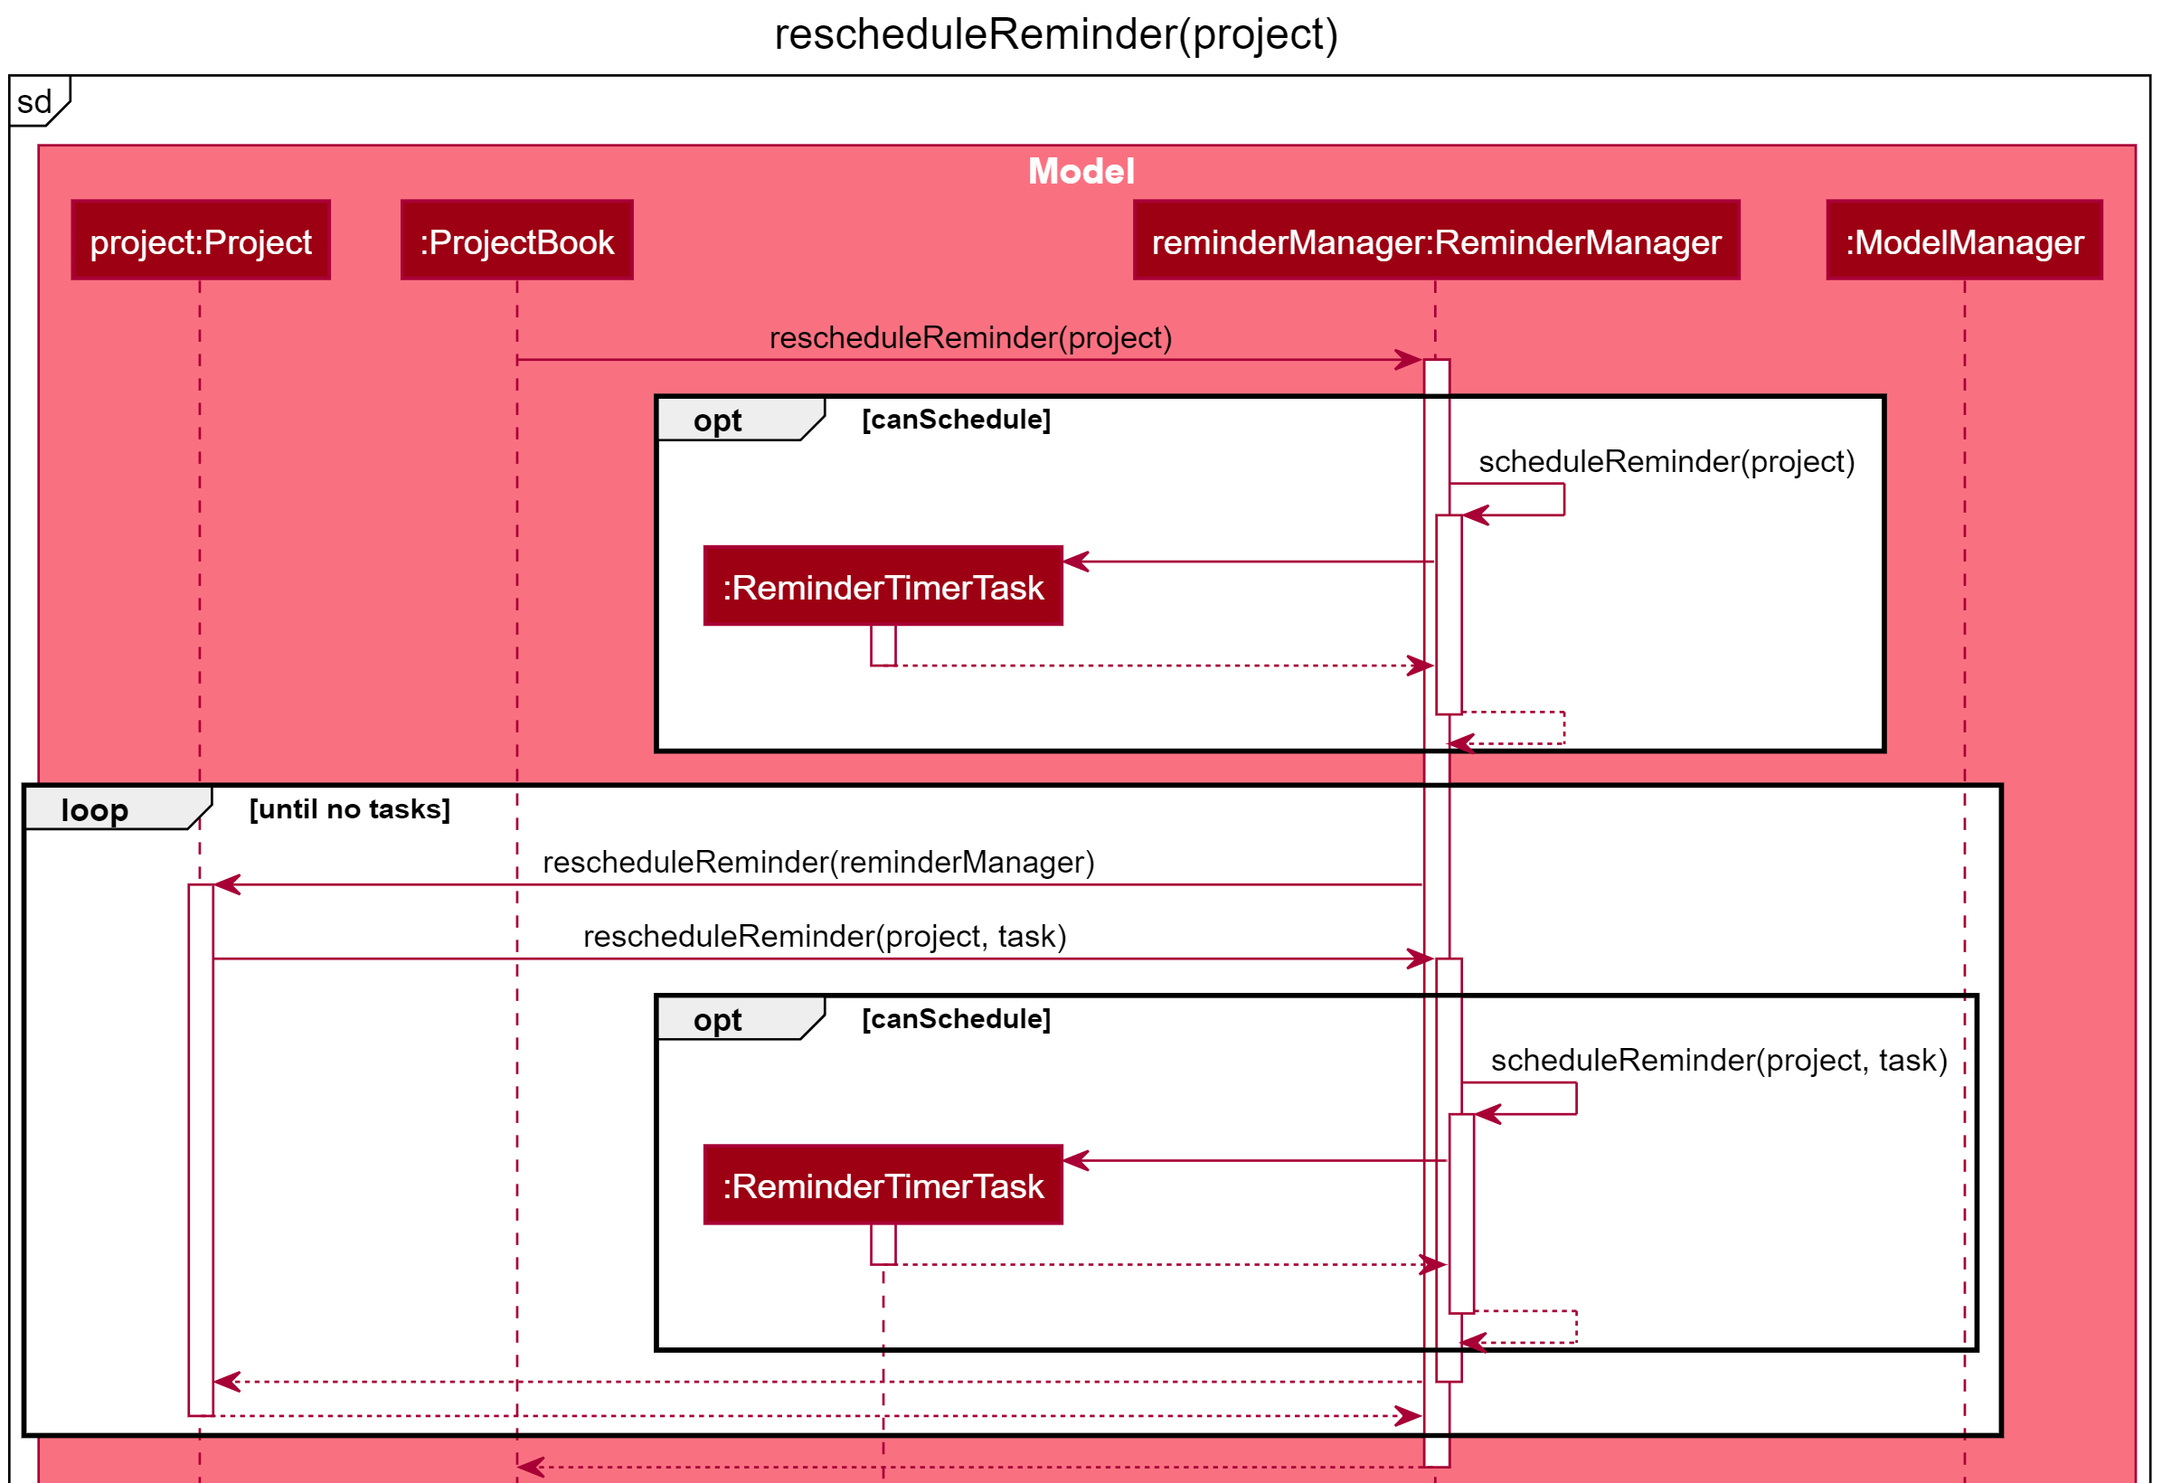
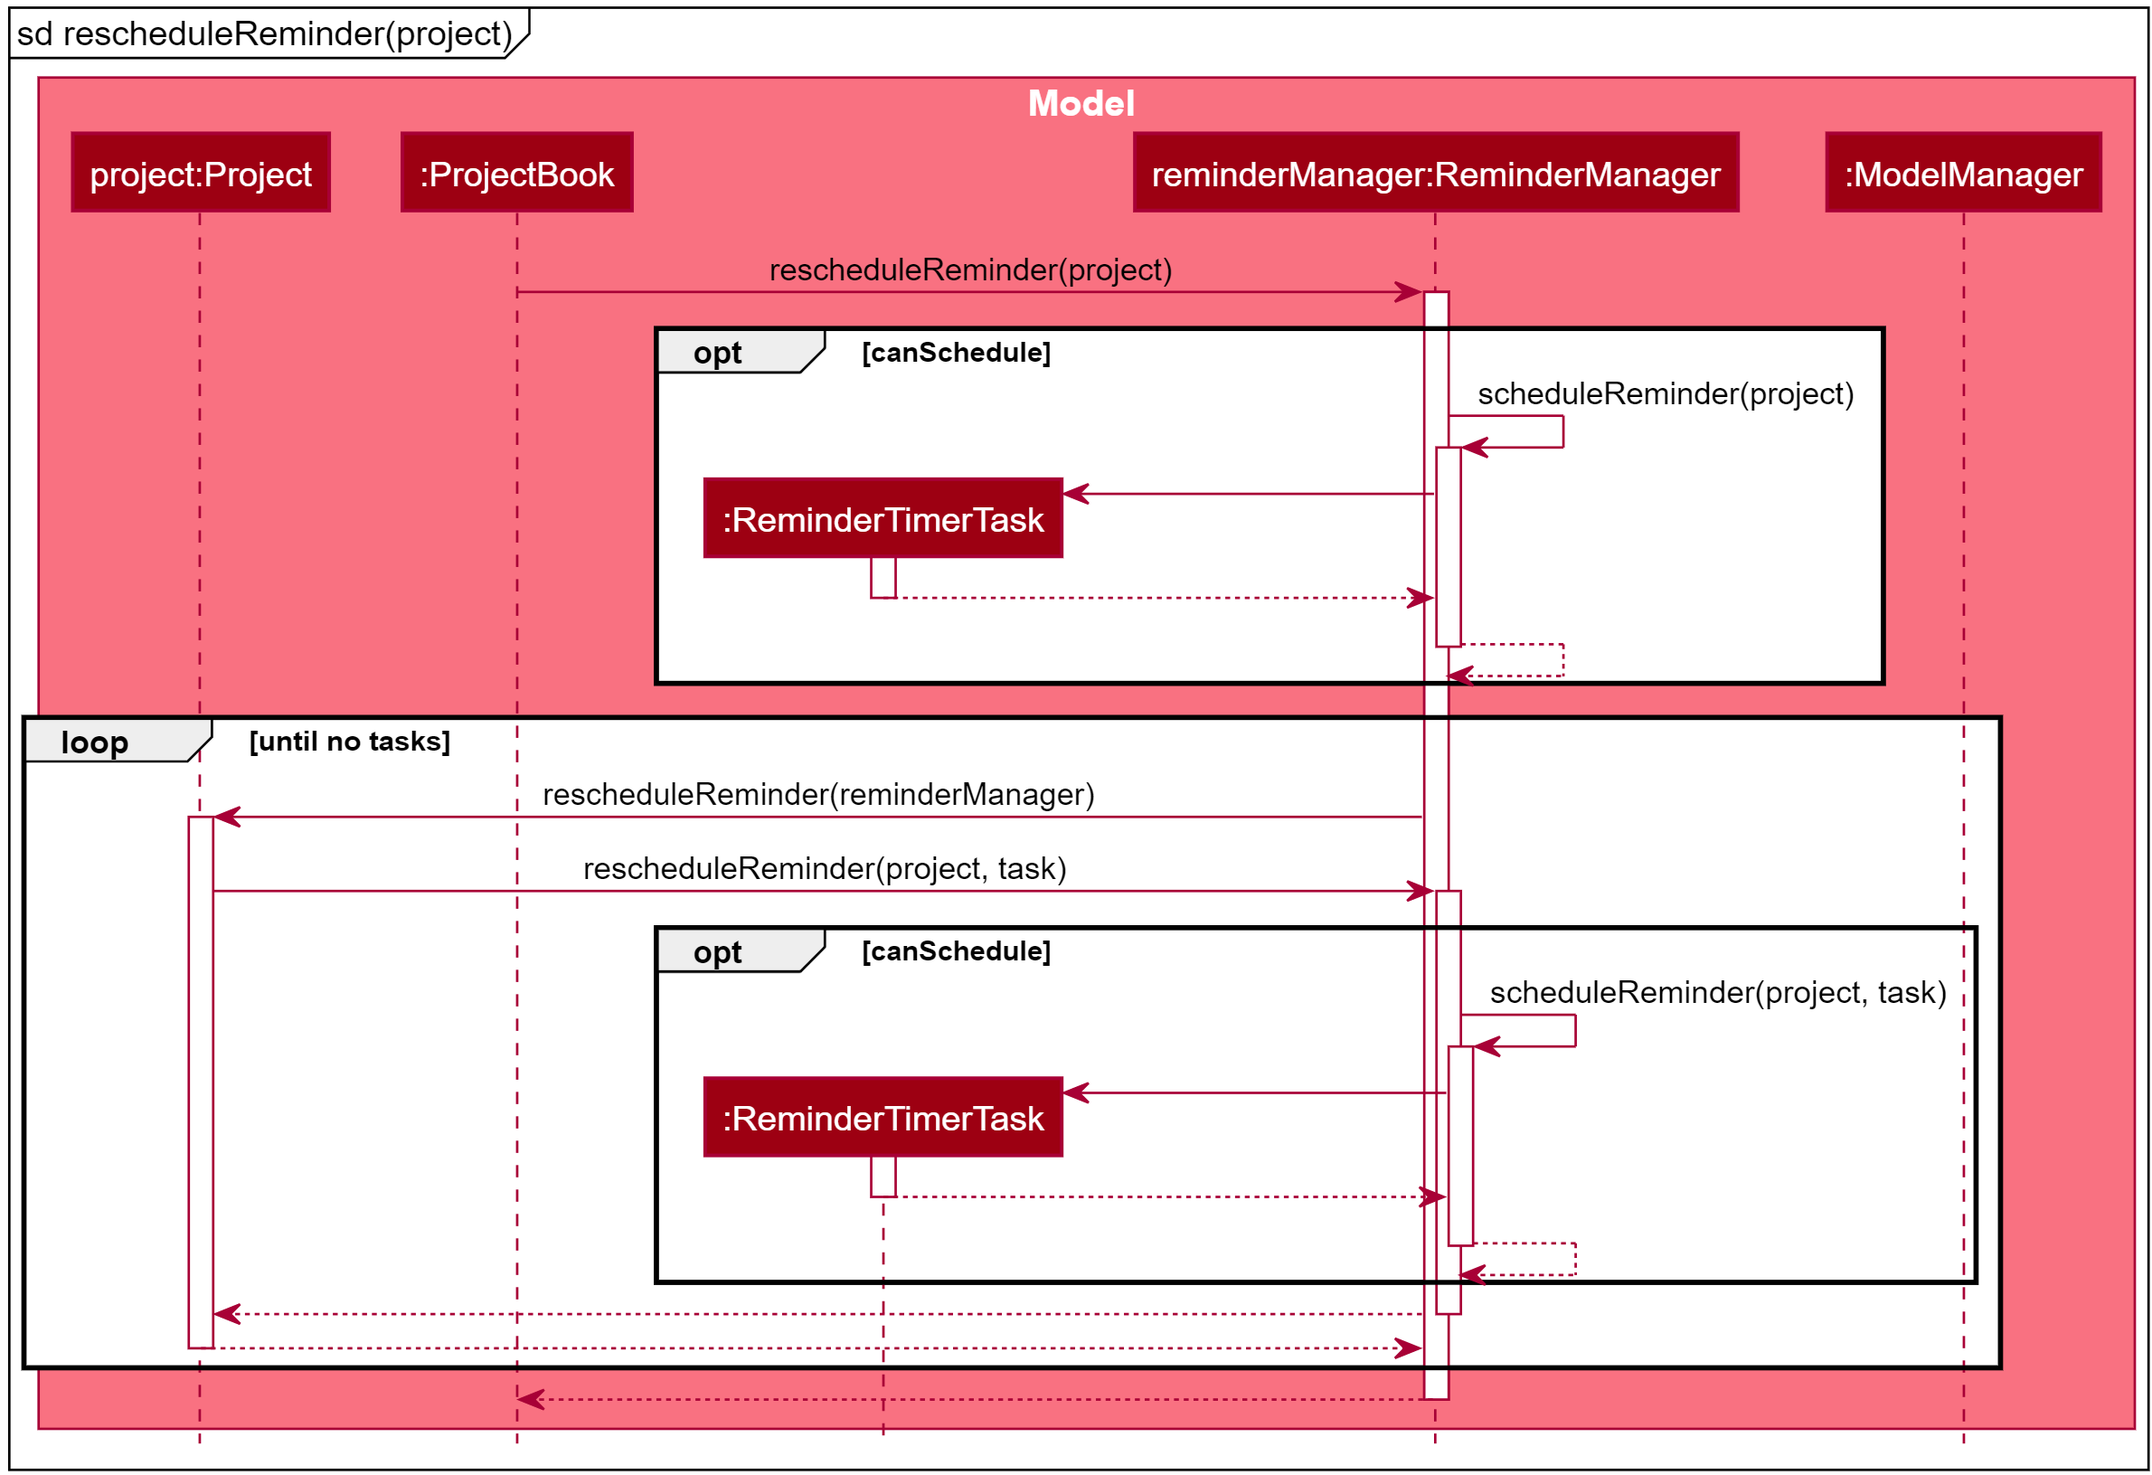
Update developer guide and some diagrams

diff --git a/docs/DeveloperGuide.md b/docs/DeveloperGuide.md
@@ -140,19 +140,8 @@ The `Storage` component,
 * can save `UserPref` objects in json format and read it back.
 * can save `JsonAdaptedProject` objects in `JsonSerializableProjectBook` in json format and read it back.
 
-The `JsonAdaptedTask` component contains fields of a `Task` in json format:
-
-* `name` in `String` format
-* `description` in `String` format
-* `completionStatus` in `boolean` format
-* `createdDate` in `String` format
-* `deadline` in `String` format
-* `reminder` in `String` format
-* `tagged` in `List<JsonAdaptedTag>` format
-* `durations` in `List<JsonAdaptedWorkDuration>` format
-* `timer` in `JsonAdaptedTimer` format
-
-In addition to the fields in `JsonAdaptedTask` component, `JsonAdaptedProject` contains a taskList in `List<JsonAdaptedTask>` format.
+The `JsonAdaptedProject` class contains the same fields as the `JsonAdaptedTask` class.
+In addition to the fields in `JsonAdaptedTask` component, `JsonAdaptedProject` also contains a taskList in `List<JsonAdaptedTask>` format, as show in the class diagram above.
 
 ### Common classes
 
@@ -224,7 +213,7 @@ Drawbacks:
 
 #### Alternative 1: Using Predicates
 
-Another implementation we considered was to add all `Project` and `Task` objects to the same `UniqueItemsList`. 
+Another implementation we considered was to add all `Project` and `Task` objects to the same `UniqueItemsList`.
 
 This implementation shares some similarities with our chosen implementation. Both `Project` and `Task` will extend an abstract `TrackedItem` class.
 
@@ -267,9 +256,11 @@ Drawbacks:
 * Allowing for deeper nesting of projects may make the application more confusing to use without significant UI changes.
 
 ### Immutability
+
 `Projects`, `Tasks`, `Timers`, and `WorkDurations` are immutable. This means that anytime a project's details are changed, a new object is created with the new details, and the model is updated with the new object.
 
 Notable examples include:
+
 * Starting/Stopping a Timer: A new object is created with the updated timer state and durations,
 * Editing a Project: A new object is created with the new project's details, with the same timer and durations recorded.
 
@@ -332,9 +323,9 @@ For `EditCommand`, a descriptor of type `editTrackedItemDescriptor` containing e
 
 Users can add reminders to be notified on particular projects or tasks at the date and time specified.
 
-Reminders are stored in a project or task. The runs and shows the name of the project or task in the reminder panel of the sidebar at the date and time while the application is opened. Reminders are removed after a reminder is runned at the specified date and time.
+Reminders are stored in a project or task. The reminder run and shows the name of the project or task in the reminder panel of the sidebar at the date and time while the application is opened. Reminders are removed after a reminder is runned at the specified date and time.
 
-If application is not open at the date and time of the reminder or if there are multiple reminders scheduled at the same date and time, the reminder will be marked as missed. The `updateExpiredReminders` method in `ProjectBook` helps to update the missed reminders before rescheduling all the reminders.
+If application is not open at the date and time of the reminder or if there are multiple reminders scheduled at the same date and time, the reminder will be marked as missed. Details on how the reminder will be marked as missed is in the [Scheduling of Reminders](#scheduling-of-reminders) section.
 
 #### Organisation of Reminder Related Classes
 
@@ -343,8 +334,6 @@ The reminder is stored as a `Reminder` class in a project or task. The date and 
 `ReminderManager` schedules the reminder using the `schedule` method of the `Timer` class and runs the reminder using the `run` method of the `ThreadWrapper` class.
 
 The diagram below shows the structure of the classes related to the `reminder` package.
-
-//TODO: explain diagrams, try to make model not italicised
 
 ![Structure of the Model Component for Reminders](images/ReminderClassDiagram.png)
 
@@ -367,10 +356,10 @@ An alternative would be to only reschedule projects or tasks that are affected b
 `ReminderManager` contains a reference to a `Model` so that the projects and tasks can be iterated through callback methods and the reminders of the projects can be modified.
 
 To schedule reminders, several callback functions are used to iterate through the project book in the model. The entry point is in `ModelManager` where `rescheduleReminders` can be called.
-This method calls `ReminderManager#rescheduleReminder` so that the `timer` in `ReminderManager` can be resetted before the reminders are actually scheduled.
+This method calls `ReminderManager#rescheduleReminder` so that the `timer` in `ReminderManager` can be reseted before the reminders are actually scheduled.
 
 After resetting the `timer`, reminders are rescheduled by calling
-`Model#rescheduleReminder`, which iterates through the project book through `ProjectBook#rescheduleReminder` and modifies the reminders. In this method, the expiration of the reminders will be updated through `ProjectBook#updateExpiredReminders`before the reminder of each project and task is rescheduled as shown in the diagram below.
+`Model#rescheduleReminder`. This method iterates through the project book through `ProjectBook#rescheduleReminder` to modify the projects and tasks. In this method, the expiration of the reminders will be updated through `ProjectBook#updateExpiredReminders` before the reminder of each project and task is rescheduled as shown in the diagram below.
 
 ![Schedule Reminder Sequence Diagram](images/ScheduleReminderSequenceDiagram.png)
 
@@ -390,26 +379,11 @@ At the date and time scheduled, the reminder will be run.
 
 In the process of running the reminders, the UI will show the reminder and it will be removed.
 
-//TODO: put task, project and projectbook to the right of modelmanager
-
 ![Run Task Reminder Sequence Diagram](images/RunTaskReminderSequenceDiagram.png)
 
 The result of the reminder is stored as a `StringProperty` in `ReminderManager`and retrieved from the `Model` so that a listener can be used in `MainWindow` to observe the `StringProperty` so that changes can be detected and the GUI can be updated acccordingly.
 
 A `BooleanProperty` is also stored in `ReminderManager` to keep track of whether there are any reminders so that `MainWindow` can detect whether there are reminders and hide or show the reminder panel accordingly. This design was also chosen due to the ease of implementation.
-
-### Statistics
-
-//TODO: combine this section with the 1st section
-
-#### Rescheduling Reminders
-
-Whenever a project or task is added, edited or removed, the reminders needs to be adjusted accordingly. The chosen implementation is to reschedule all the reminders.
-
-For example, the `PeriodicTotalTimeStatistic` calculates the amount of time the user
-spends on each project within a specified [timeframe](#timeframes), and is calculated by looking at each project in the model and summing up all the durations spent working on the project for the given timeframe.
-
-An alternative would be to only reschedule projects or tasks that are affected by the change. This design was not chosen as it is more complicated and would increase the coupling between `ReminderManager` and other related classes.
 
 ### Statistics
 
@@ -464,7 +438,7 @@ Below are some activity diagrams to illustrate the process of obtaining the curr
 
 ### Find Command
 
-Momentum allows uses to search for tasks using the find command. Users can search for projects/tasks based on their name, description, tag and completion status. A FindType is included to determine whether any, all or none of the parameters need to match a project/task for it to be displayed.
+Momentum allows users to search for projects and tasks using the find command. Users can search for projects/tasks based on their name, description, tag and completion status. A FindType is included to determine whether any, all or none of the parameters need to match a project/task for it to be displayed.
 
 A predicate is created for each type of search parameter (name, description, tags, completion status). There are four predicates classes defined for this purpose.
 
@@ -538,9 +512,10 @@ Currently, the user adjustable settings are the GUI theme and the timeframe of t
 
 `SettingsUpdateManager#updateTheme` and `SettingsUpdateManager#updateStatisticTimeFrame` are designed to handle null cases of `Ui` and `StatisticGenerator` so as to make testing more convenient. This is because there are methods being tested that will indirectly call the above methods. Allowing `Ui` and `StatisticGenerator` to be null will enable them to not be instantiated in the tests.
 
-It is also worth noting that all attributes and methods in `SettingUpdateManager` are class-level instead of instance-level. This design was chosen so as to allow minimal changes to the code base. However, one con of this design will be that the attributes and methods can be set or called from anywhere in the code. 
+It is also worth noting that all attributes and methods in `SettingUpdateManager` are class-level instead of instance-level. This design was chosen so as to allow minimal changes to the code base. However, one con of this design will be that the attributes and methods can be set or called from anywhere in the code.
 
-##### Alternative Implementation of `SettingsUpdateManager`
+#### Alternative Implementation of `SettingsUpdateManager`
+
 An alternative implemention of `SettingsUpdateManager` is to convert all of the class-level attributes and methods to become instance-level. While this can address the con mentioned above, having to pass an instantiated `SettingsUpdateManager` object around now will require some undesirable changes to be made. Below describe the possible ways to pass a `SettingsUpdateManager` object around and it's undesired effects.
 
 * Include `SettingsUpdateManager` as an attribute in `ModelManager`:
@@ -549,6 +524,7 @@ An alternative implemention of `SettingsUpdateManager` is to convert all of the 
   * With the current code design, in order for `SetCommand` to be able to use `SettingsUpdateManager`, it is required that `SettingsUpdateManager` is passed in as an argument in `SetCommand#execute` when the method is called by `LogicManager`. This will require changes to be made to the abstract `Command` superclass' `execute` method, and is also an undesirable design as all commands will now be aware of `SettingsUpdateManager` when `SetCommand` is the only command using it.
 
 #### Alternative implementation of Settings Feature
+
 An alternative way to implement the settings feature is to not make the settings reflect immediately. Instead, the user will have to restart the application for the settings to take effect. While it will be much easier to implement since it will only require updating `UserPrefs`, it will not provide a good user experience.
 
 ### Sort Command
@@ -699,10 +675,14 @@ This was a candidate for implementation but ultimately rejected due to the follo
 
 * Time tracking app
   * Dashboard view for freelancer to get an overview of all projects.
-  * Multiple groups to represent different categories to help in grouping of tasks such as freelance projects.
-  * Predefined groups that are commonly used for freelancers, such as projects and self-learning/improvement.
-  * Timer to track the duration of a task or Indicate start time and end time for a task, so that the user can price their rates and charge clients more accurately.
+  * Projects can contain multiple tasks to facilitate effective tracking of projects.
+  * Use tags to organise tasks and projects for commonly used categories.
+  * Timer to track the duration of a task or project, so that the user can price their rates and charge clients more accurately.
+  * Deadline and completion status to track the status of a task or project.
   * Reminder for a project (only when application is open).
+  * Perform highly customised searches for projects and tasks.
+  * Quickly organise projects and tasks based on different parameters.
+  * Attractive GUI with customisable themes for better user experience.
   * Interesting/creative views for visualizing the data.
 
 ### User stories
@@ -764,7 +744,7 @@ Priorities: High (must have) - `* * *`, Medium (nice to have) - `* *`, Low (unli
 
     Use case ends.
 
-####**Use case: Add a project**
+#### **Use case: Add a project**
 
 **MSS**
 
@@ -790,6 +770,12 @@ The use cases for editing a project, adding a task and editing a task is similar
 1. User requests to dismiss a reminder.
 2. Momentum hides the reminder panel.
 
+**Extensions**
+
+* 1a. Momentum detects an error as there is no reminder to dismiss.
+
+  * a1. Momentum shows an error message.
+
   Use case ends.
 
 #### **Use case: Hide the Tags Panel**
@@ -812,8 +798,6 @@ The use cases for editing a project, adding a task and editing a task is similar
 
 The use cases for deleting a task is similar to deleting a project.
 
-//TODO: add use cases
-
 **Extensions**
 
 * 3a. The given project id is invalid.
@@ -822,7 +806,7 @@ The use cases for deleting a task is similar to deleting a project.
 
     Use case ends.
 
-####**Use case: Find a project/task in the list**
+#### **Use case: Find a project/task in the list**
 
 **MSS**
 
@@ -843,7 +827,7 @@ The use cases for deleting a task is similar to deleting a project.
 
     Use case ends.
 
-####**Use case: View a project's tasks**
+#### **Use case: View a project's tasks**
 
 **MSS**
 
@@ -857,7 +841,6 @@ The use cases for deleting a task is similar to deleting a project.
   * a1. Momentum shows an error message.
 
     Use case ends.
-
 
 ### Non-Functional Requirements
 
@@ -879,7 +862,7 @@ The use cases for deleting a task is similar to deleting a project.
 Given below are instructions to test the app manually.
 
 <div markdown="span" class="alert alert-info">:information_source: <strong>Note:</strong> These instructions only provide a starting point for testers to work on;
-testers are expected to do more *exploratory* testing.
+testers are expected to do more <strong>exploratory</strong> testing.
 
 </div>
 
@@ -889,20 +872,21 @@ testers are expected to do more *exploratory* testing.
 
    1. Download the jar file and copy into an empty folder
 
-   1. Double-click the jar file Expected: Shows the GUI with a set of sample contacts. The window size may not be optimum.
+   1. Double-click the jar file
+      Expected: Shows the GUI with a set of sample projects and tasks.
 
-1. Saving window preferences
+2. Saving window preferences
 
    1. Resize the window to an optimum size. Move the window to a different location. Close the window.
 
-   1. Re-launch the app by double-clicking the jar file.<br>
+   2. Re-launch the app by double-clicking the jar file.<br>
       Expected: The most recent window size and location is retained.
 
 ### Saving data
 
 1. Dealing with missing data files
 
-   1. Delete the existing `projectbook.json` file
+   1. Delete the existing `projectbook.json` file in the `data` directory
 
    1. Re-launch the app by double-clicking the jar file.<br>
       Expected: The project book is initalized with default data.
@@ -1555,7 +1539,6 @@ testers are expected to do more *exploratory* testing.
 
     1. Test case: `stop x` where x is the greater than the number of tasks.<br>
     Expected: No timer stopped. Invalid index message shown.
-
 
 ### Undo/Redo
 
